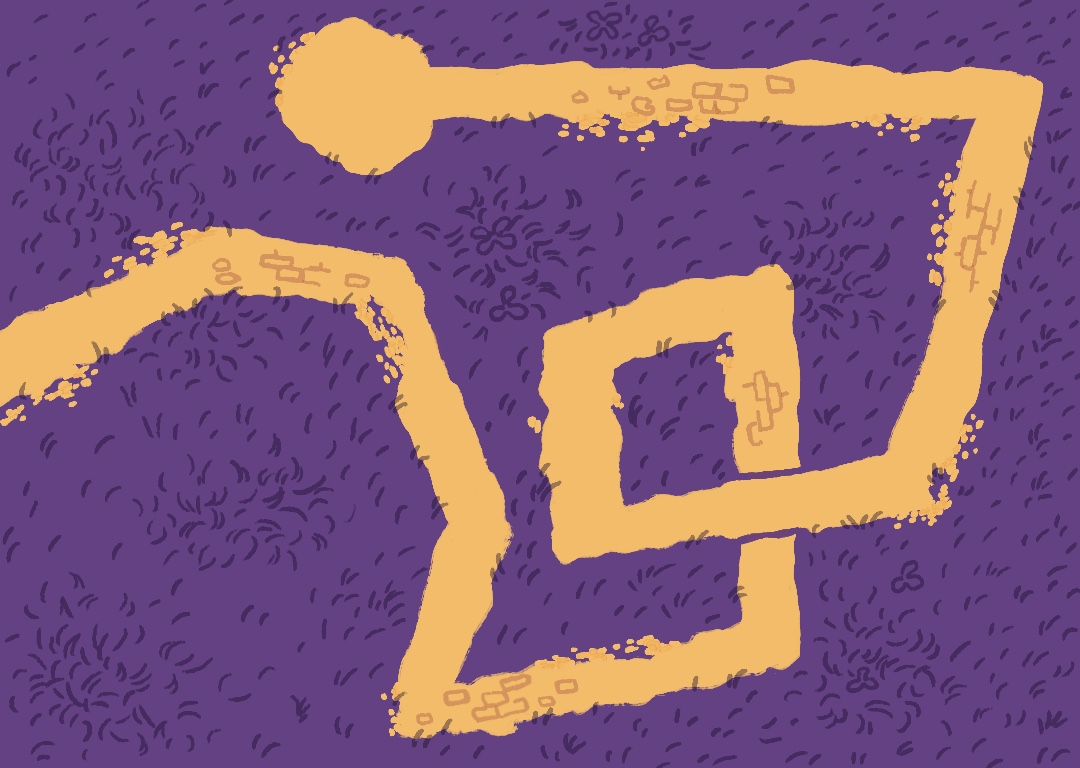
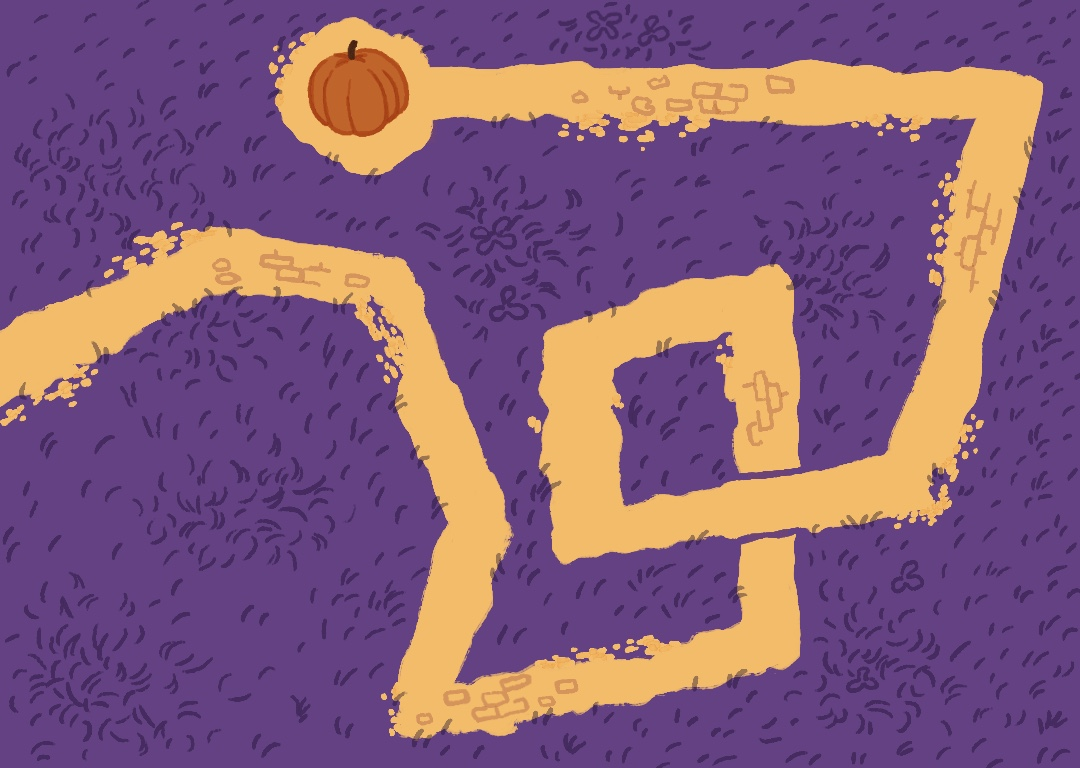
Bugs move on path now

Changed region(s): [[0.275, 0.0625, 0.3972, 0.1875]]

diff --git a/bug.py b/bug.py
@@ -1,5 +1,6 @@
 import pygame
 import random
+import math
 
 bug_images = ["./Assets/fly.png", "./Assets/ladybug.png", "./Assets/snail.png"]
 
@@ -7,11 +8,27 @@ class Bug():
     def __init__(self, position, velocity_dir):
         self.image = pygame.image.load(bug_images[random.randint(0, len(bug_images)-1)])
         self.rect = self.image.get_rect()
-        self.speed = 125
+        self.speed = 10
         self.velocity_dir = velocity_dir
         self.velocity = [self.speed*velocity_dir[0], self.speed*velocity_dir[1]]
         self.rect.move_ip(*position)
         self.position = position
+
+        self.checkpoint = 0 # movement checkout
+        self.checkpoints = [
+            pygame.Rect(184, 247, 40, 40), # 0
+            pygame.Rect(378, 256, 40, 40), # 1
+            pygame.Rect(464, 508, 40, 40), # 2
+            pygame.Rect(406, 701, 40, 40), # 3
+            pygame.Rect(753, 622, 40, 40), # 4
+            pygame.Rect(741, 286, 40, 40), # 5
+            pygame.Rect(553, 337, 40, 40), # 6
+            pygame.Rect(567, 516, 40, 40), # 7
+            pygame.Rect(882, 462, 40, 40), # 8
+            pygame.Rect(1006, 78, 40, 20), # 9
+            pygame.Rect(335, 71, 70, 100), # Pumpkin!
+            pygame.Rect(0, 0, 0, 0)
+        ]
 
         self.direction = 0 # 0 = left, 1 = up, 2 = right, 3 = down
 
@@ -22,9 +39,6 @@ class Bug():
         self.slow_down_timer_max = self.slow_down_timer
 
     def update(self, dt):
-
-        if self.speed < 0:
-            self.speed = 1
 
         # Decide direction
         if self.velocity[0] > 0:
@@ -37,18 +51,39 @@ class Bug():
         elif self.velocity[1] < 0:
             self.direction = 3
 
-        # Out of bounds check
-        if self.position[0] > 1080 or self.position[0] < 0 or self.position[1] > 768 or self.position[1] < 0:
-            self.rect.move_ip(self.velocity[0]*dt, self.velocity[1]*dt)
+        if self.checkpoint == len(self.checkpoints)-1: # if at pumpkin
+            print("end")
         else:
-            self.rect.move_ip(self.velocity[0]*dt, self.velocity[1]*dt)
+            self.follow_path()
+            self.velocity = [self.speed*self.velocity_dir[0], self.speed*self.velocity_dir[1]]
 
-        
-        self.position = [self.rect.left, self.rect.top]
-        self.velocity = [self.speed*self.velocity_dir[0], self.speed*self.velocity_dir[1]]
+            # Out of bounds check
+            if self.position[0] > 1080 or self.position[0] < 0 or self.position[1] > 768 or self.position[1] < 0:
+                self.rect.move_ip(self.velocity[0], self.velocity[1])
+            else:
+                self.rect.move_ip(self.velocity[0], self.velocity[1])
 
-        if self.slowed_down:
-            self.slow_down()
+            
+            self.position = [self.rect.left, self.rect.top]
+
+            if self.slowed_down:
+                self.slow_down()
+
+    def follow_path(self):
+        if self.checkpoints[self.checkpoint].colliderect(self.rect):
+            self.checkpoint += 1
+
+            # Calculate movement using an imaginary vector :)
+            dx = self.checkpoints[self.checkpoint].left-self.checkpoints[self.checkpoint-1].left
+            dy = self.checkpoints[self.checkpoint].top-self.checkpoints[self.checkpoint-1].top
+
+            ln = math.sqrt(dx*dx+dy*dy)
+
+            dx /= ln
+            dy /= ln
+
+            self.velocity_dir = [dx, dy]
+
 
     def slow_down(self):
         self.slow_down_timer -= 1
@@ -64,7 +99,7 @@ class Bug():
     def bug_spawn_handler(g):
         g.bug_spawn_timer -= 1
         if g.bug_spawn_timer < 0:
-            Bug.spawn_bug(g, [10,10], [1, 0])
+            Bug.spawn_bug(g, [-5, 366], [1, -0.5])
             g.bug_spawn_timer_max -= 1
             g.bug_spawn_timer = g.bug_spawn_timer_max
 
